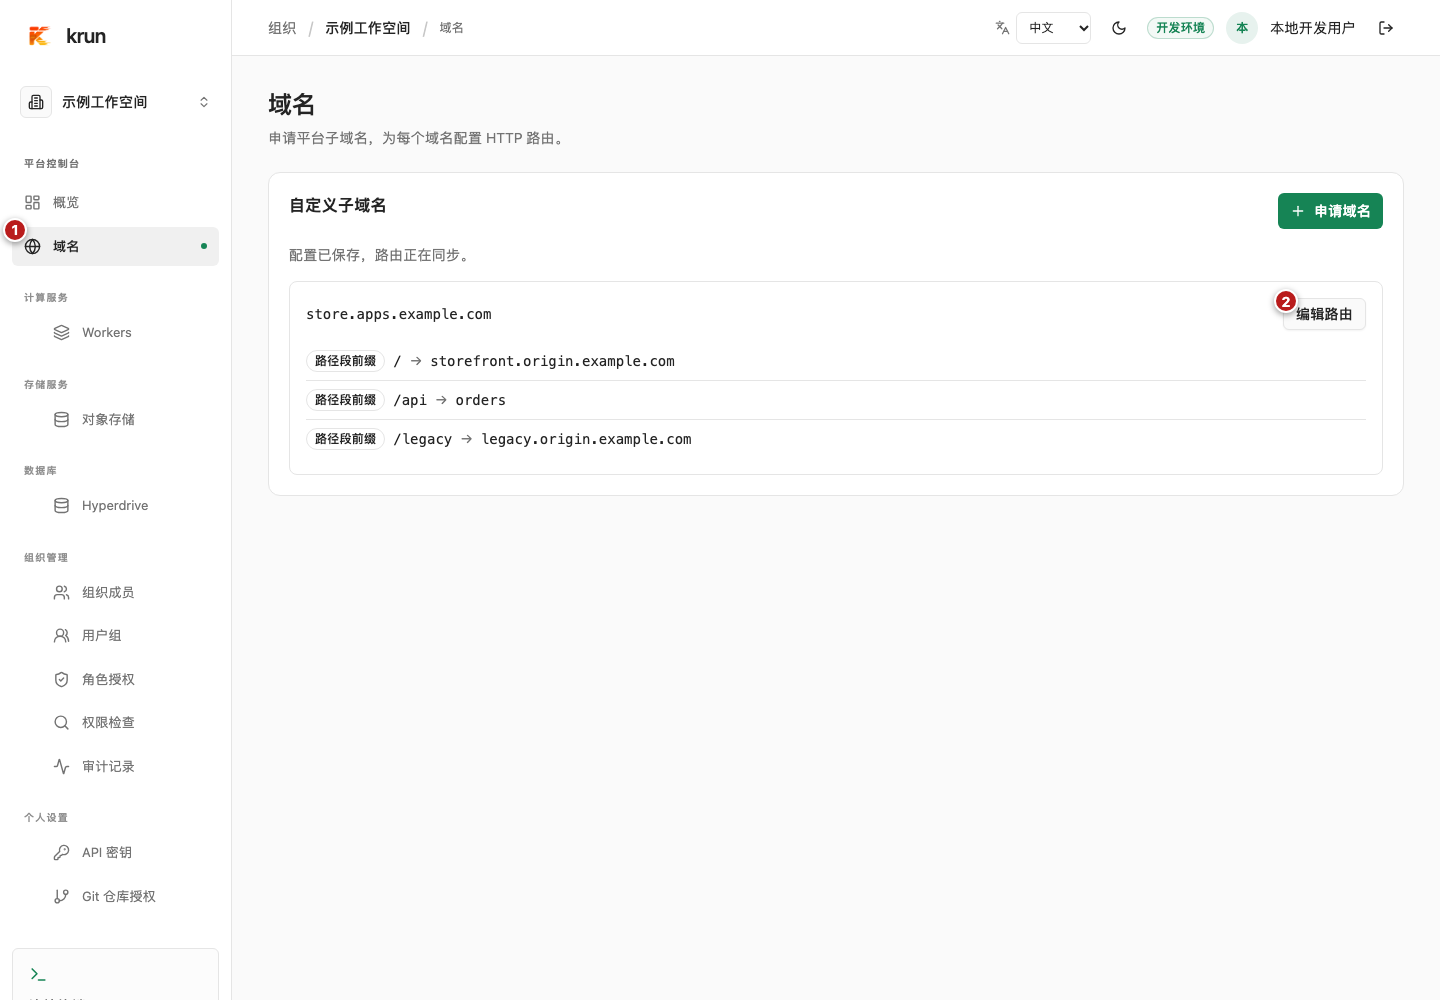
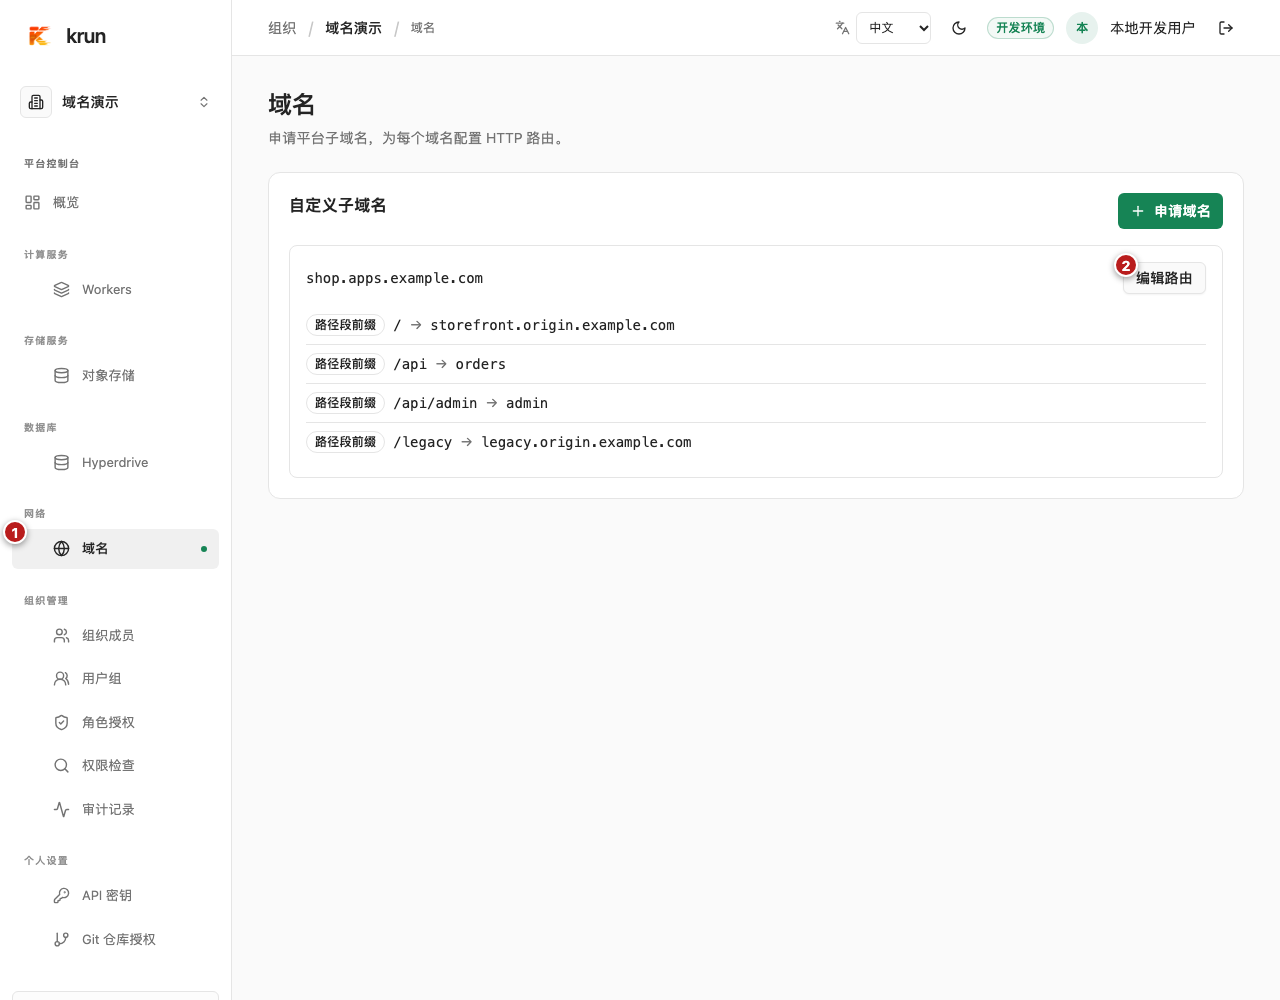
将域名管理和文档归入网络分组

diff --git a/web/src/components/workers/managed-hostnames.tsx b/web/src/components/workers/managed-hostnames.tsx
@@ -350,6 +350,15 @@ function HostnameEditor({
               {!item ? (
                 <>
                   <div className="grid gap-3 sm:grid-cols-2">
+                    <Field label={t("域名前缀")}>
+                      <Input
+                        required
+                        maxLength={63}
+                        value={label}
+                        onChange={(event) => setLabel(event.target.value)}
+                        placeholder="shop"
+                      />
+                    </Field>
                     <SelectField
                       label={t("域名后缀")}
                       value={suffix}
@@ -364,15 +373,6 @@ function HostnameEditor({
                         </option>
                       ))}
                     </SelectField>
-                    <Field label={t("域名前缀")}>
-                      <Input
-                        required
-                        maxLength={63}
-                        value={label}
-                        onChange={(event) => setLabel(event.target.value)}
-                        placeholder="shop"
-                      />
-                    </Field>
                   </div>
                   <code className="break-all text-sm text-muted-foreground">
                     {label.toLowerCase() || "shop"}.{preview}

diff --git a/web/src/App.tsx b/web/src/App.tsx
@@ -102,10 +102,10 @@ const navigation: {
   group: string;
 }[] = [
   { id: "overview", name: "概览", icon: LayoutDashboard, group: "" },
-  { id: "domains", name: "域名", icon: Globe, group: "" },
   { id: "workers", name: "Workers", icon: Layers3, group: "计算服务" },
   { id: "buckets", name: "对象存储", icon: Database, group: "存储服务" },
   { id: "hyperdrive", name: "Hyperdrive", icon: Database, group: "数据库" },
+  { id: "domains", name: "域名", icon: Globe, group: "网络" },
   { id: "members", name: "组织成员", icon: Users, group: "组织管理" },
   { id: "groups", name: "用户组", icon: UsersRound, group: "组织管理" },
   { id: "roles", name: "角色授权", icon: ShieldCheck, group: "组织管理" },
@@ -603,6 +603,7 @@ export default function App() {
                 ...navigation.filter((n) => n.group === "计算服务"),
                 ...navigation.filter((n) => n.group === "存储服务"),
                 ...navigation.filter((n) => n.group === "数据库"),
+                ...navigation.filter((n) => n.group === "网络"),
                 ...navigation.filter((n) => n.group === "组织管理"),
                 ...navigation.filter((n) => n.group === "个人设置"),
               ]
